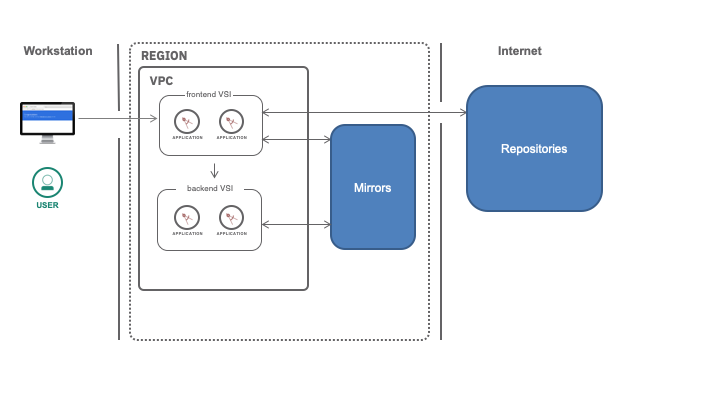
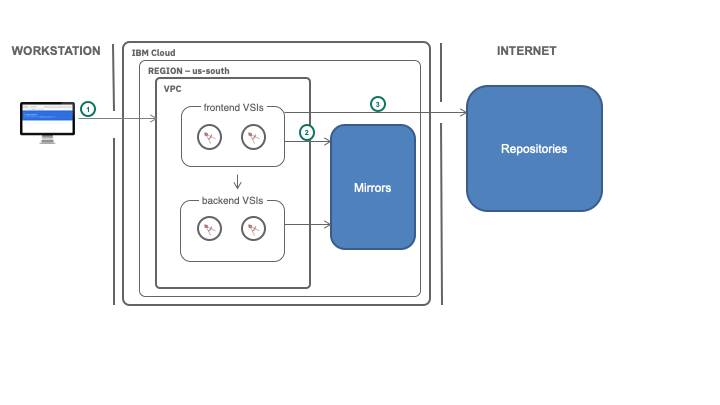
numbered architecture diagram

diff --git a/vpc-app-deploy.md b/vpc-app-deploy.md
@@ -54,9 +54,9 @@ This tutorial may incur costs. Use the [Pricing Calculator](https://{DomainName}
   ![Architecture](images/solution49-vpc-app-deploy/ArchitectureDiagram.png)
 </p>
 
-1. The user identifies the software that is required
-1. Manually practices the installation of the software
-1. Optionally automates the procedures using API, CLI, Terraform or Ansible
+1. Install and configure the automation software required to access cloud and VSIs
+1. Identify the software accessed from the {{site.data.keyword.IBM}} provided mirrors and configure installation and update
+1. Identify the internet software required and configure installation and update
 
 ## General software installation principles
 {: #section_one}
@@ -64,7 +64,7 @@ Software can originate from the following locations:
 - Initial VSI image
 - {{site.data.keyword.Bluemix_notm}} mirrors
 - Internet or intranet available repositories
-- On the file system of the provisioning system, the users system in the architecture diagram above
+- File system of the workstation in the architecture diagram above (provisioning system)
 
 Initial {{site.data.keyword.Bluemix_notm}} VSI images are populated with popular off the shelf operating systems:
 
@@ -82,7 +82,7 @@ cfdaf1a0-5350-4350-fcbc-97173b510843   ubuntu-18.04-amd64      Ubuntu Linux (18.
 
 At a high level:
 - A public, private and bastion VSI are provisioned with the ubuntu-18.04 base image
-- nginx is installed on the public and private VSI - demonstrating the use of IBM mirrors
+- nginx is installed on the public and private VSI - demonstrating the use of {{site.data.keyword.IBM}} mirrors
 - Internet software is accessed - demonstrating the use of internet repositories on the public VSI and failure on the private VSI
 - A file is copied from the file system of the provisioning computer to the public VSI and executed
 - Tests are run to verify the above
@@ -145,7 +145,7 @@ runcmd:
 {:pre}
 
 ### Demonstrate the mirrors
-Upgrading the installed software and installing nginx and other packages using the operating system provided software installation tools will demonstrate that even the private instances have access to the IBM provided mirrors.  The cloud-init program uses the OS native install software, ubuntu apt for example, to install software from the mirrors.  The mirrors contain the full linux distrubtions of updates and optionally installed software, like nginx, for the IBM images.
+Upgrading the installed software and installing nginx and other packages using the operating system provided software installation tools will demonstrate that even the private instances have access to the {{site.data.keyword.IBM}} provided mirrors.  The cloud-init program uses the OS native install software, ubuntu apt for example, to install software from the mirrors.  The mirrors contain the full linux distrubtions of updates and optionally installed software, like nginx, for the provided images.
 
 ### Demonstrating internet access
 When nginx is initialized it will surface the following file: /var/www/html/index.nginx-debian.html
